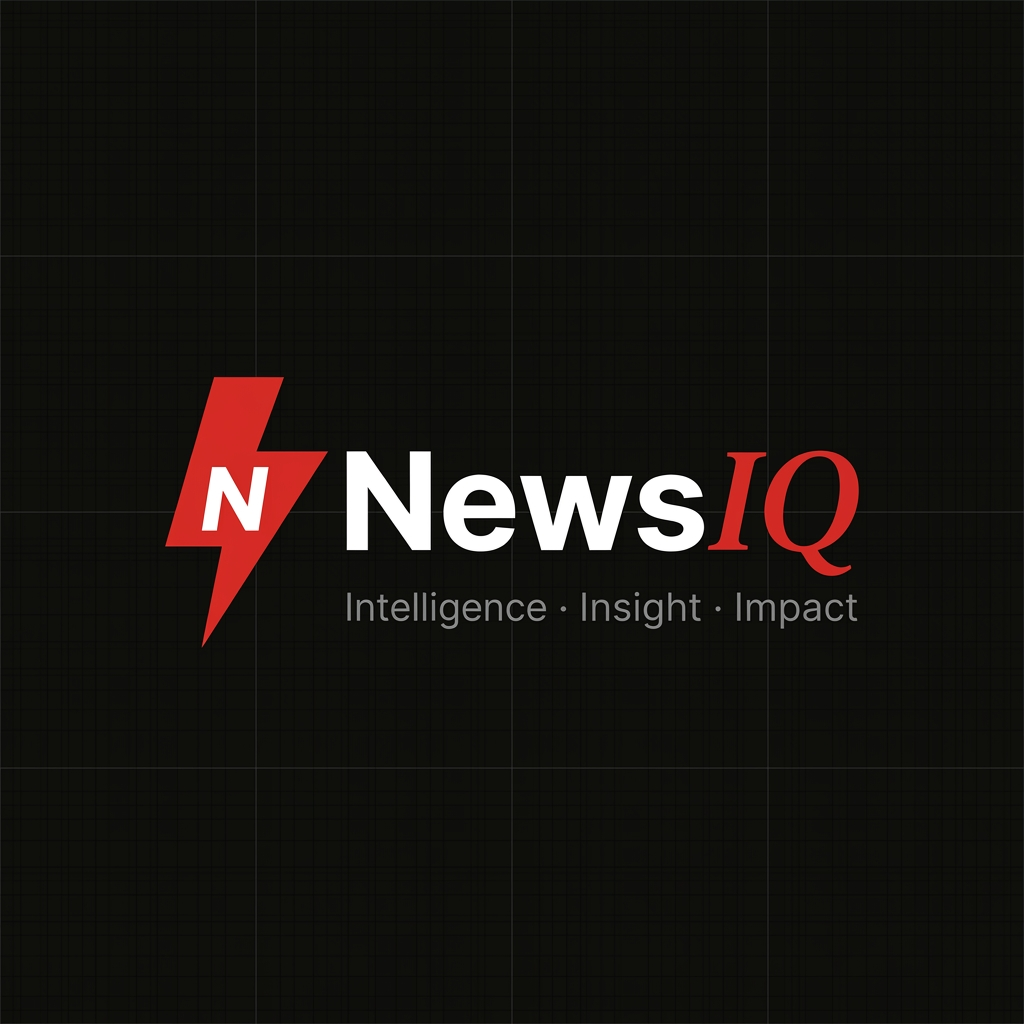
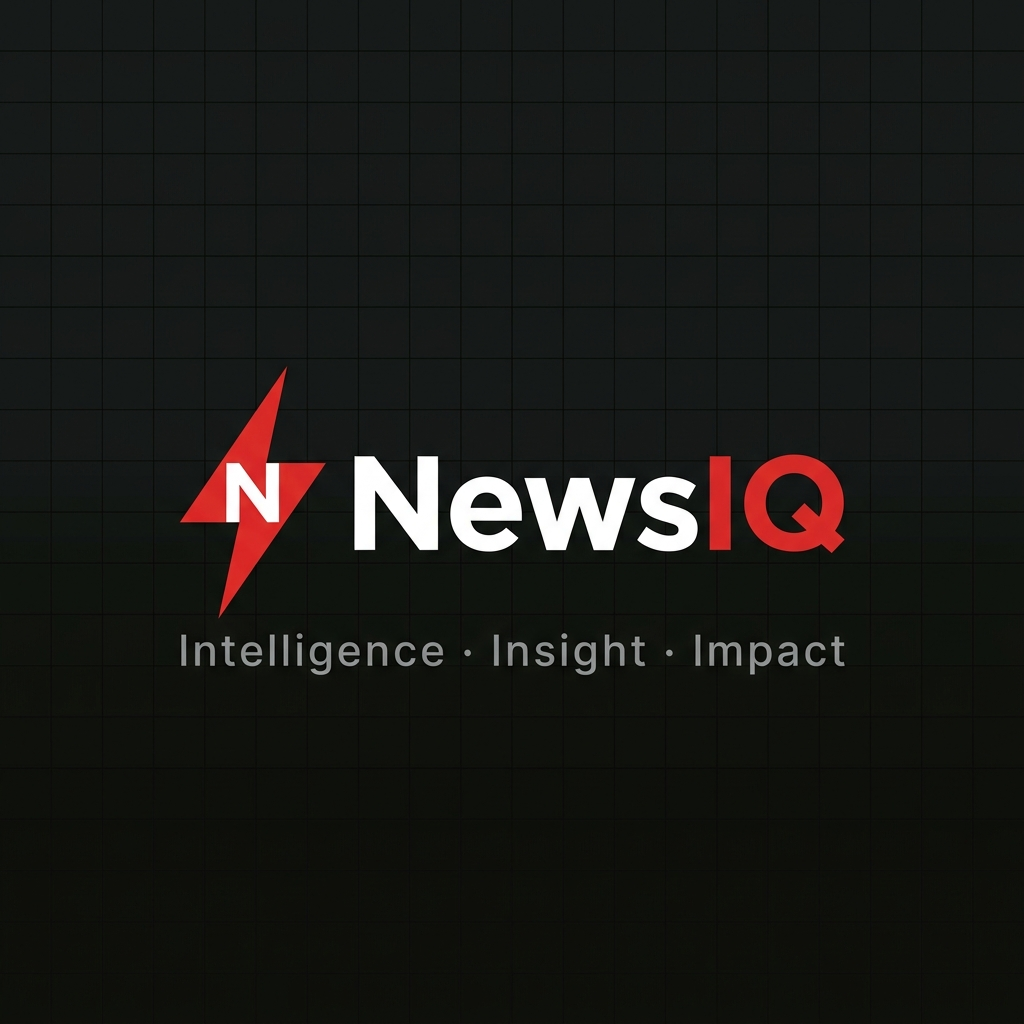
fix: align wordmark styles to render News and IQ together in exact same sans-serif bold font

Changed region(s): [[0.1562, 0.3438, 0.8438, 0.6562]]

diff --git a/apps/web/src/branding/typography.ts b/apps/web/src/branding/typography.ts
@@ -8,8 +8,8 @@ export const brandFonts = {
   /** Wordmark "News" — clean sans-serif */
   wordmarkPrimary: "'Inter', -apple-system, BlinkMacSystemFont, 'Segoe UI', sans-serif",
 
-  /** Wordmark "IQ" — editorial serif italic */
-  wordmarkAccent: "'Newsreader', Georgia, 'Times New Roman', serif",
+  /** Wordmark "IQ" — clean sans-serif matching News */
+  wordmarkAccent: "'Inter', -apple-system, BlinkMacSystemFont, 'Segoe UI', sans-serif",
 
   /** Body text */
   body: "'Inter', -apple-system, BlinkMacSystemFont, 'Segoe UI', sans-serif",

diff --git a/apps/web/src/branding/logo.tsx b/apps/web/src/branding/logo.tsx
@@ -86,7 +86,7 @@ function Wordmark({
         style={{
           fontFamily: brandFonts.wordmarkAccent,
           fontWeight: brandWeights.wordmarkAccent,
-          fontStyle: "italic",
+          fontStyle: "normal",
           fontSize,
           color: brandColors.primary,
         }}